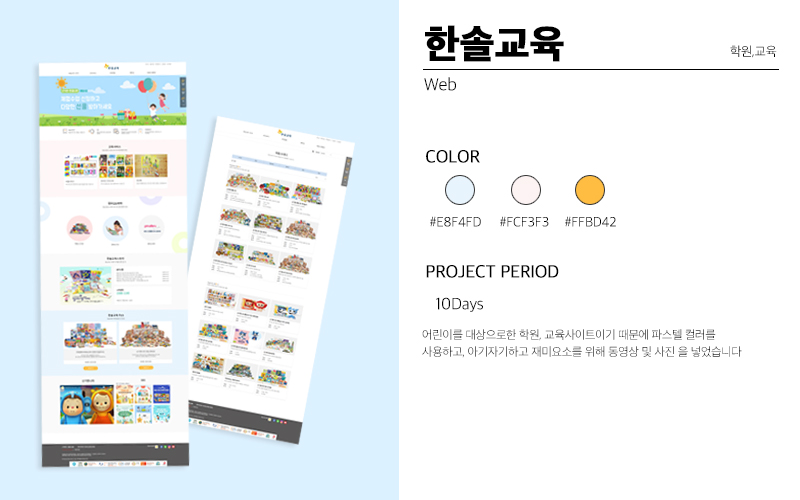
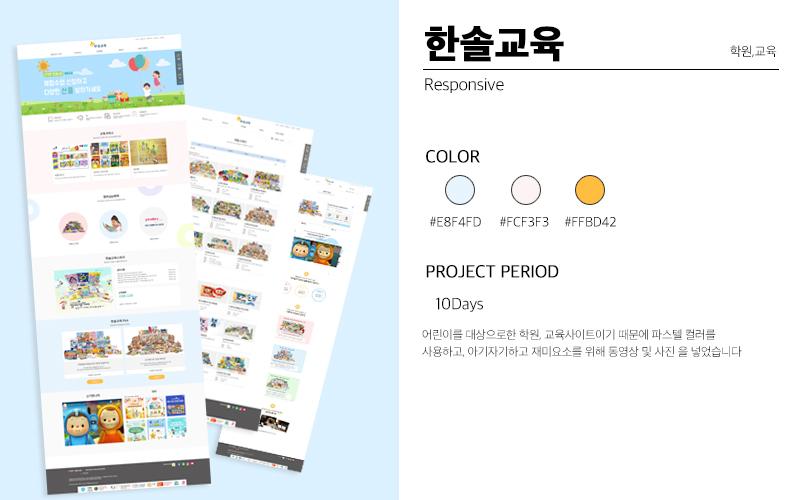
Add files via upload

Changed region(s): [[0.0, 0.06, 0.4688, 0.99], [0.5312, 0.15, 0.625, 0.18], [0.1875, 0.54, 0.2188, 0.57]]

diff --git a/p1/style.css b/p1/style.css
@@ -112,7 +112,7 @@ body {
 }
 
 #content section#menu1 {
-    background-image: url(./img/images/pagebg1_01.png);
+    background-image: url(./img/images/pbg_01.png);
     width: 100vw;
     overflow: hidden;
     height: 100vh;
@@ -248,52 +248,7 @@ body {
 #content section#menu2 .con2 table td.notiline{
    padding-bottom:10px; 
 }
-/*#content section#menu2 .con2 .pro {
-    width: 50%;
-    float: right;
-    display: block;
-    height: 10px;
-    height: 400px;
-    padding-top: 40px;
-}
 
-#content section#menu2 .con2 .pro .txttit {
-    width: 150px;
-    height: 40px;
-    line-height: 35px;
-    font-size: 25px;
-    
-    padding-top: 5px;
-    color: palevioletred;
-    letter-spacing: 1px;
-}
-
-#content section#menu2 .con2 .pro .txtdas {
-    width: 600px;
-    line-height: 30px;
-    font-size: 19px;
-    height: 50px;
-    
-    padding-top: 5px;
-    font-family: 'Montserrat', sans-serif;
-}
-
-#content section#menu2 .con2 .pro .txttit1 {
-    width: 150px;
-    font-size: 25px;
-    letter-spacing: 1px;
-    color: palevioletred;
-
-}
-
-#content section#menu2 .con2 .pro .txtdas1 {
-    width: 550px;
-    height: 40px;
-    line-height: 25px;
-    font-size: 19px;
-    padding-top: 10px;
-    font-family: 'Montserrat', sans-serif;
-}*/
 
 #content section#menu2 .con2-1 {
     margin: 0 auto;
@@ -1275,4 +1230,224 @@ button:focus {
     line-height: 50px;
     background-color: #fff;
 }
+    
+    
+
+.portfolio {
+   width: 80%;
+   height: 80%;
+   margin: 1% auto;
+}
+
+.controls {
+    display: inline-block;
+    width: 100%;
+   color: #333;
+   padding: 1%;
+   position: relative;
+}
+.por_tit{
+   font-size: 1.5em;
+   font-weight: bold;
+   color: #fff;
+   margin-bottom: 0.5em;
+   text-align: center;
+}
+.btn_box{
+   position: absolute;
+   bottom:-5px;
+    width: 1000px;
+}
+
+.btn_box button {
+   
+   background-color: lightcoral;
+   color: #000;
+    font-weight: bold;
+   font-size: 14px;
+   display: inline-block;
+   padding: 0.4em;
+   font-weight: 300;
+   border-radius: 4px;
+   cursor: pointer;
+    width: 8%;
+    border: 0;
+    outline: 0;
+    height: 40px;
+    line-height: 20px;
+    border-top-left-radius: 10px;
+    border-top-right-radius: 10px;
+    text-align: center;
+}
+
+button:hover {
+   background-color: #000;
+    color: #fff;
+}
+
+button:focus {
+   outline: 0;
+}
+
+.container {
+   background: #fff;
+   width: 100%;
+   height: 90%;
+   padding: 0;
+   backface-visibility: hidden;
+   box-sizing: border-box;
+   overflow: hidden;
+margin-top: -10px;
+
+}
+
+.container .mix-name:after {
+   content: "";
+   display: inline-block;
+   width: 350px;
+    left: calc(50% - 200px);
+}
+
+.container .mix {
+   width:48%;
+   height: 260px;
+   display: inline-block;
+   overflow: hidden;
+    position: relative;
+}
+  
+.container .mix {
+   float: left;
+   background-color: #ccc;
+   margin: 1%;
+   display: none;
+
+}
+.container .mix:nth-child(3n-1){
+   margin-right: none;
+}
+
+.container .mix img{
+   display: block;
+   width: 100%;
+   height: 100%;
+    overflow: hidden;
+    transition: 0.5s;
+    cursor: pointer;
+}
+.container .mix:hover img{
+    transform: scale(1.1);
+}
+
+.container .mix a{
+    display: block;
+}
+.container .sub{
+    display: block;
+    background-color: red;
+    width: 100px;
+    height: 50px;
+}
+    
+    
+#modal_pop{width: 500px;height: 300px;position: fixed;z-index: 500;top: calc(50% - 250px);left: calc(50% - 300px);z-index: 600;display: none;}
+.image_box{width: 500px;height: 300px;background: #fff;}
+
+.img_box{width: 100%;}
+.img_box img{width: 100%;height: 100%;display: block;float: left;}
+
+
+.img_btn{position: absolute;bottom: 10px;right: 60px;width: 100px;height: 40px;border: 0;outline: 0;z-index: 50;}
+.img_btn a{text-decoration: none;color: #333;display: block;width: 100%;line-height: 40px;cursor: pointer;}
+.img_btn:hover{background: #334893;}
+.img_btn:hover a{color: #fff;}
+
+
+.close_btn{outline: 0;border: 0;position: absolute;right: -30px;top: 0;font-size: 20px;padding: 5px;color: #fff;background: #333;width: 40px;height: 40px;cursor: pointer;}
+.close_btn:hover{background: #b10404;}
+
+    
+    #content section#menu2 header h2 {
+    width: 80%;
+    text-align: center;
+    margin: 0 auto;
+    font-size: 50px;
+
+}
+
+
+#content section#menu2 .con2 {
+    width: 80%;
+    margin: 0 auto;
+    display: block;
+    height: 700px;
+    border: 2px dashed #dfdfdf;
+    background-color: #fffcfc;
+}
+
+#content section#menu2 .con2 .big_img {
+    width:100%;
+    float: left;
+    display: block;
+    height: 200px;
+    margin-top: 100px;
+}
+
+#content section#menu2 .con2 .big_img img {
+    width: 300px;
+    height: 200px;
+    display: block;
+    text-align: center;
+    margin-left: 40px;
+}
+#content section#menu2 .con2 table{
+    margin-top: 0px;
+    width: 100%;
+    float: right;
+    height: 370px;
+    line-height: 40px;
+    margin-top: -50px;
+    padding-left: 20px;
+}
+#content section#menu2 .con2 table tr{
+}
+#content section#menu2 .con2 table tr th{
+    display: block;
+    width: 150px;
+    text-align: left;
+    font-size: 28px;
+    font-weight: normal;
+    line-height: 30px;
+    height: 40px;
+    color: lightcoral;
+}
+#content section#menu2 .con2 table td{
+    width: 100%;
+    display: block;
+    line-height: 20px;
+    font-size: 18px
+}
+#content section#menu2 .con2 table td.notiline{
+   padding-bottom:10px; 
+}
+
+
+#content section#menu2 .con2-1 {
+    margin: 0 auto;
+
+}
+
+#content section#menu2 .con2-1 p {
+    font-size: 45px;
+    margin: 0 auto;
+    width: 100%;
+    text-indent:30px;
+    margin-top: 20px;
+    font-family: 'Montserrat', sans-serif;
+
+
+}
+
+
+
 }

diff --git a/p1/index.html b/p1/index.html
@@ -230,7 +230,7 @@
                                 </div>
 
                             </div>
-                            <div class="mix web" data-myorder="3" src="https://nan960203.github.io/k1/">
+                            <div class="mix responsive web" data-myorder="3" src="https://nan960203.github.io/k1/">
                                 <img src="./img/kcc.jpg" alt="">
                                 <div class="mix_txtbox">
                                     <p class="mix-name" style="color: #fff; font-size: 22px;">KCC건설</p>
@@ -246,7 +246,7 @@
                                 </div>
 
                             </div>
-                            <div class="mix web" data-myorder="5" src="http://nan960203.dothome.co.kr/k3/">
+                            <div class="mix web" data-myorder="5" src="http://nan960203.dothome.co.kr/k4/">
                                 <img src="./img/hop.png" alt="">
                                 <div class="mix_txtbox">
                                     <p class="mix-name" style="color: #fff; font-size: 22px;">국립합창단</p>
@@ -263,7 +263,7 @@
                                 </div>
 
                             </div>
-                            <div class="mix web" data-myorder="7" src="https://nan960203.github.io/h1/">
+                            <div class="mix responsive web" data-myorder="7" src="https://nan960203.github.io/h1/">
                                 <img src="./img/han.png" alt="">
                                 <div class="mix_txtbox">
                                     <p class="mix-name" style="color: #fff; font-size: 22px;">한솔교육</p>
@@ -296,14 +296,14 @@
                                 </div>
 
                             </div>
-                            <div class="mix responsive web" data-myorder="11">
+                           <!-- <div class="mix responsive web" data-myorder="11">
                                 <img src="./img/portfolop.jpg" alt="">
                                 <div class="mix_txtbox">
                                     <p class="mix-name" style="color: #fff; font-size: 22px;">포트폴리오</p>
                                     <p class="mix-das" style="color: #fff; font-size: 18px;">포트폴리오 제작</p>
                                 </div>
 
-                            </div>
+                            </div>-->
                             <!--<div class="mix other" data-myorder="10">
                                 <img src="./img/flow.jpg" alt="">
                                 <div class="mix_txtbox">
